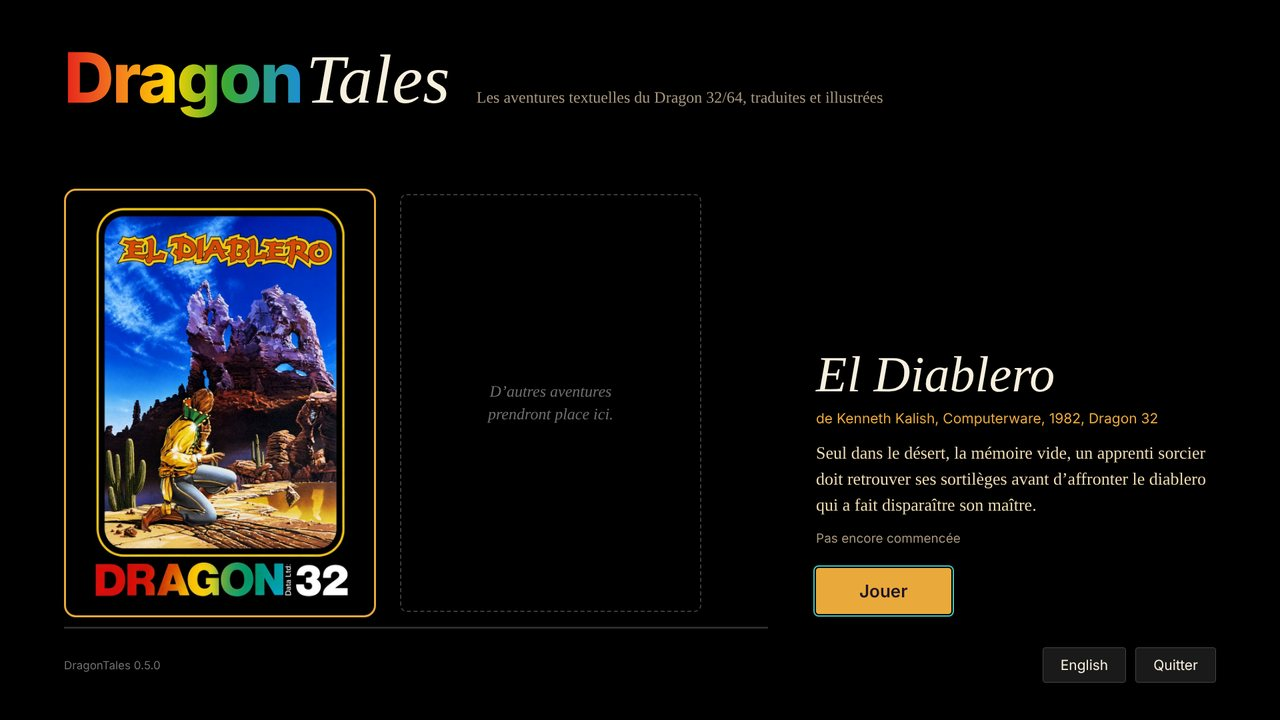
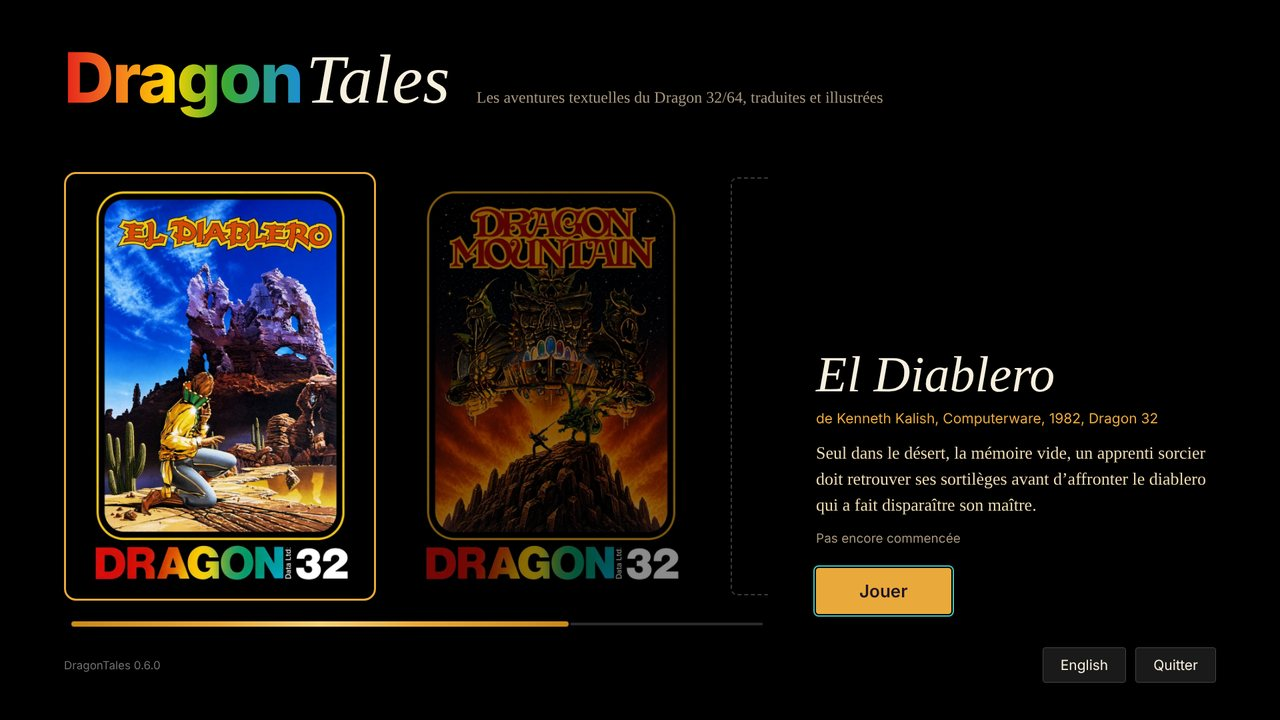
DragonTales 0.6.0 : Dragon Mountain rejoint l'étagère
Dragon Mountain entre dans la page publiée (EN-COURS.md retiré) ; ses essais tournent sur la
page normale. Version 0.6.0 : journal des versions (la 0.5.1, jamais publiée, y est fondue),
notes de version, README français et anglais, captures d'écran.

Claude-Session: https://claude.ai/code/session_01BzSas1tP4TvGfgXSawBHE9

Changed region(s): [[0.0312, 0.2444, 0.5938, 0.8861], [0.3125, 0.2444, 0.5312, 0.825]]

diff --git a/tests/essai-dragonmountain.js b/tests/essai-dragonmountain.js
@@ -1,6 +1,6 @@
 // Essai de Dragon Mountain (jeu en BASIC) dans Chrome : partie entière avec la graine de solution.txt, sauvegarde et
 // chargement, version classique, français et anglais, formule magique, mort.
-//   python build.py --tout && node tests/essai-dragonmountain.js
+//   python build.py && node tests/essai-dragonmountain.js
 let chromium; try{ ({chromium}=require('playwright')); }catch(e){ ({chromium}=require('/opt/npm-tools/node_modules/playwright')); }
 const fs=require('fs'), path=require('path');
 const PAGE='file://'+path.resolve(__dirname,'..','DragonTales.html'), OUT=path.resolve(__dirname,'out'); fs.mkdirSync(OUT,{recursive:true});

diff --git a/aventures/dragonmountain/aventure.js b/aventures/dragonmountain/aventure.js
@@ -1,5 +1,4 @@
 // Dragon Mountain (Dragon Data, 1982) — fiche de l'aventure pour DragonTales.
-// EN COURS (voir EN-COURS.md) : build.py ne l'inclut pas encore dans DragonTales.html (python build.py --tout pour l'essayer).
 // Ce fichier est assemblé après data.js, hints.js, scenes.js, sons.js et textes.js du même dossier : ROOMS, POS, HINTS, SCENES,
 // DM_SFX et dmSfxFor, FR et dmSay/dmClean.
 // Le jeu est écrit en Dragon BASIC : il tourne dans moteur/basic.js, et la partie se lit dans ses variables

diff --git a/README.md b/README.md
@@ -14,12 +14,14 @@ DragonTales l'habille : textes traduits, jeu à la souris, carte, illustrations,
 
 ![El Diablero en version moderne](docs/jeu.jpg)
 
+![Dragon Mountain en version moderne](docs/dragonmountain.jpg)
+
 ## Aventures
 
 | Aventure | Auteur, éditeur | Année | Machine | Langues |
 |---|---|---|---|---|
 | El Diablero | Kenneth Kalish, Computerware | 1982 | Dragon 32 | français, anglais |
-| Dragon Mountain *(en cours d'intégration)* | Dragon Data | 1982 | Dragon 32 | — |
+| Dragon Mountain | Dragon Data | 1982 | Dragon 32 | français, anglais |
 
 ## Jouer
 
@@ -38,6 +40,8 @@ Sauvegardes permet de les exporter dans un fichier pour les reprendre ailleurs.
 - **Jeu à la souris** : un verbe, puis un mot du texte, un objet ou une direction. On peut toujours écrire ses commandes.
 - **Carte** dessinée au fil de l'exploration, avec les objets visibles et les passages particuliers ; un clic y conduit.
 - **Trois pièces magiques** par partie : chacune donne un indice adapté à l'endroit où l'on en est.
+- **Jeux en code machine ou en BASIC** : le programme d'origine tourne dans un émulateur 6809 ou dans un interpréteur
+  Dragon BASIC, corrigé au besoin quand il contient des bugs.
 - **Sauvegardes** (automatique et trois emplacements, export et import par fichier), annulation du dernier coup,
   musique et effets sonores réglables.
 
@@ -81,17 +85,19 @@ node tests/rejouer-solution.js      # sans navigateur : rejoue aventures/eldiabl
 python build.py
 node tests/essai.js                 # dans Chrome, avec Playwright : étagère, partie entière, retour, reprise
 node tests/sauvegardes.js           # dans Chrome : pièces magiques, journal conservé, export et import
-python build.py --tout && node tests/essai-dragonmountain.js   # Dragon Mountain (en cours d'intégration)
+node tests/essai-dragonmountain.js  # dans Chrome : Dragon Mountain (partie entière, sauvegardes, langues, mort)
 ```
 
 Les deux derniers demandent `npm install playwright` et Chrome (variable `CHROME` pour indiquer son chemin).
 GitHub lance ces trois essais à chaque modification poussée sur `main` et sur chaque demande de fusion.
 
-Attention : `aventures/eldiablero/solution.txt` dévoile toute l'aventure.
+Attention : les fichiers `solution.txt` des aventures dévoilent tout le jeu.
 
 ## Crédits
 
 - **El Diablero** : programme et textes d'origine de Kenneth Kalish, publiés par Computerware en 1982.
   Le binaire, l'illustration de la boîte et celle de l'écran d'introduction appartiennent à leurs ayants droit.
-- Portage, traduction française, interface, illustrations vectorielles, indices et effets sonores : projet DragonTales.
-- Musique d'El Diablero : « Awakening in the Desert », créée pour ce projet.
+- **Dragon Mountain** : programme et textes d'origine publiés par Dragon Data en 1982.
+  Le programme et la boîte d'origine appartiennent à leurs ayants droit.
+- Portage, traductions françaises, interface, illustrations vectorielles, indices et effets sonores : projet DragonTales.
+- Musiques : « Awakening in the Desert » (El Diablero) et « The Guardian's Hoard » (Dragon Mountain), créées pour ce projet.

diff --git a/README.en.md b/README.en.md
@@ -14,12 +14,14 @@ DragonTales dresses it up: translated texts, mouse play, a map, illustrations, s
 
 ![El Diablero in the modern version](docs/jeu.jpg)
 
+![Dragon Mountain in the modern version](docs/dragonmountain.jpg)
+
 ## Adventures
 
 | Adventure | Author, publisher | Year | Machine | Languages |
 |---|---|---|---|---|
 | El Diablero | Kenneth Kalish, Computerware | 1982 | Dragon 32 | French, English |
-| Dragon Mountain *(being integrated)* | Dragon Data | 1982 | Dragon 32 | — |
+| Dragon Mountain | Dragon Data | 1982 | Dragon 32 | French, English |
 
 ## Play
 
@@ -40,6 +42,8 @@ Games are saved in the browser; the saved-games window can export them to a file
 - **Mouse play**: a verb, then a word from the text, an object or a direction. Typing commands always works.
 - **A map** drawn as you explore, with visible objects and special passages; one click walks you there.
 - **Three magic coins** per game: each gives a hint suited to where you are in the adventure.
+- **Machine-code or BASIC games**: the original program runs in a 6809 emulator or in a Dragon BASIC interpreter,
+  patched when it contains bugs.
 - **Saved games** (autosave and three slots, export and import as files), undo, adjustable music and sound effects.
 
 ## Build the page
@@ -76,17 +80,19 @@ node tests/rejouer-solution.js      # no browser: replays aventures/eldiablero/s
 python build.py
 node tests/essai.js                 # in Chrome, with Playwright: shelf, full game, back to the shelf, resume
 node tests/sauvegardes.js           # in Chrome: magic coins, kept history, export and import
-python build.py --tout && node tests/essai-dragonmountain.js   # Dragon Mountain (being integrated)
+node tests/essai-dragonmountain.js  # in Chrome: Dragon Mountain (full game, saves, languages, death)
 ```
 
 The last two need `npm install playwright` and Chrome (set `CHROME` to its path if needed).
 GitHub runs all three on every push to `main` and on every pull request.
 
-Warning: `aventures/eldiablero/solution.txt` spoils the whole adventure.
+Warning: the adventures' `solution.txt` files spoil the whole game.
 
 ## Credits
 
 - **El Diablero**: original program and texts by Kenneth Kalish, published by Computerware in 1982.
   The binary, the box art and the title-screen art belong to their rights holders.
-- Port, French translation, interface, vector illustrations, hints and sound effects: the DragonTales project.
-- El Diablero music: “Awakening in the Desert”, made for this project.
+- **Dragon Mountain**: original program and texts published by Dragon Data in 1982.
+  The program and the original box belong to their rights holders.
+- Port, French translations, interface, vector illustrations, hints and sound effects: the DragonTales project.
+- Music: “Awakening in the Desert” (El Diablero) and “The Guardian's Hoard” (Dragon Mountain), made for this project.

diff --git a/CHANGELOG.md b/CHANGELOG.md
@@ -1,15 +1,33 @@
 # Journal des versions
 
-## 0.5.1 — 16 novembre 2026
+## 0.6.0 — 17 novembre 2026
 
+Deuxième aventure : **Dragon Mountain** (Dragon Data, 1982). Le moteur sait désormais jouer les jeux écrits en BASIC.
+
+### Dragon Mountain
+- Programme d'origine exécuté par un interpréteur Dragon BASIC, avec le hasard du jeu : chaque partie est différente.
+- Deux bugs d'origine corrigés : le dragon pouvait bloquer la partie s'il apparaissait avant qu'on ait la dague ;
+  le gobelet nourrissait, et le troisième panier de nourriture ne se mangeait pas.
+- Traduction française complète, versions moderne et classique, carte sur deux étages et la salle du trésor.
+- Une illustration par lieu, avec les objets, l'elfe, le démon, le dragon et les portes ouvertes.
+- Pièces magiques : dix étapes d'indices et six indices de situation ; le second indice nomme le lieu réel de l'objet.
+- Musique « The Guardian's Hoard » et effets sonores propres à l'aventure (dragon, démon, elfes, combats, portes, feu…).
+
+### Moteur
+- Interpréteur Dragon BASIC (`moteur/basic.js`), corrections de programme écrites en BASIC, carte à étages,
+  sons et éléments de scène propres à chaque aventure.
 - Fenêtre « À propos » : un clic sur le titre DragonTales de l'étagère l'ouvre (version, date, auteur, dépôt, aventures).
-- Étagère : barre de défilement aux couleurs du thème (rail sombre, curseur doré), défilement à la molette, la boîte choisie
-  reste visible. Corrigé : le bouton Jouer avait perdu sa couleur dorée.
+- Étagère : barre de défilement aux couleurs du thème, défilement à la molette, la boîte choisie reste visible.
 - Sauvegardes : export de la partie en cours dans un fichier et import d'un fichier, pour changer d'ordinateur ou de navigateur.
 - Le journal de la partie est conservé avec la sauvegarde : on le retrouve à la reprise, dans les deux versions et les deux langues.
 - Corrigé : recharger une sauvegarde ne rend plus les pièces magiques déjà dépensées dans la même partie.
-- El Diablero : le regard que l'on sent sur soi apparaît à la fenêtre de la cabane au lieu de flotter dans le ciel.
-- Dépôt : essais automatiques sur GitHub (solution rejouée, partie entière et sauvegardes dans Chrome), README en anglais.
+- Corrigé : le bouton Jouer de l'étagère avait perdu sa couleur dorée.
+
+### El Diablero
+- Le regard que l'on sent sur soi apparaît à la fenêtre de la cabane au lieu de flotter dans le ciel.
+
+### Dépôt
+- Essais automatiques sur GitHub (solutions rejouées, parties entières et sauvegardes dans Chrome), README en anglais.
 
 ## 0.5.0 — 16 novembre 2026
 

diff --git a/docs/versions/v0.6.0.md b/docs/versions/v0.6.0.md
@@ -1,0 +1,30 @@
+Deuxième aventure sur l'étagère : **Dragon Mountain** (Dragon Data, 1982), traduite, illustrée et mise en musique.
+
+## Dragon Mountain
+
+Un trésor dort au cœur de la montagne, gardé par des elfes, un démon et un dragon. Il faut manger, boire, dormir, se
+protéger du froid et trouver les bonnes armes pour en ressortir vivant. Les objets et les monstres sont placés au hasard :
+chaque partie est différente.
+
+- Version moderne et version classique, en français et en anglais.
+- Une illustration par lieu, avec les objets et les monstres présents ; carte sur deux étages.
+- Trois pièces magiques pour des indices adaptés à ta partie.
+- Musique et effets sonores propres à l'aventure.
+- Deux bugs du programme d'origine corrigés, dont le dragon qui pouvait bloquer la partie.
+
+## Aussi dans cette version
+
+- Fenêtre « À propos » (clic sur le titre DragonTales).
+- Sauvegardes exportables dans un fichier, pour continuer sur un autre ordinateur ou un autre navigateur.
+- Le journal de la partie revient quand on reprend une sauvegarde.
+- Corrections : les pièces magiques ne reviennent plus en rechargeant une sauvegarde ; El Diablero, le regard à la
+  fenêtre de la cabane.
+
+## Jouer
+
+1. Télécharge `DragonTales-0.6.0.zip` ci-dessous et décompresse-le.
+2. Sous Windows, lance `Jouer.bat` (plein écran dans Edge ou Chrome). Ailleurs, ouvre `DragonTales.html` dans un navigateur récent.
+
+Les parties et sauvegardes de la 0.5.0 sont conservées.
+
+Le détail est dans [CHANGELOG.md](https://github.com/Kraran/DragonTales/blob/main/CHANGELOG.md).

diff --git a/docs/AJOUTER-UNE-AVENTURE.md b/docs/AJOUTER-UNE-AVENTURE.md
@@ -65,9 +65,9 @@ tests/
 - des **lieux sur une grille** (`world.cols` colonnes) pour la carte. Les passages hors grille sont tracés au fur et à mesure.
 
 Les jeux écrits en **Dragon BASIC** tournent dans `moteur/basic.js` (`machine.kind: 'basic'`) : l'interpréteur lit le
-programme tokenisé de la cassette. L'interface ne sait pas encore les afficher : c'est l'étape en cours avec Dragon Mountain
-(voir `docs/PLAN-DRAGON-MOUNTAIN.md`). Ce qui demandera encore du travail : un jeu sans routine d'affichage unique, ou une
-carte qui n'est pas une grille. Dans tous les cas il faut d'abord désassembler le
+programme tokenisé de la cassette, et l'interface les affiche ligne par ligne (`world.say` traduit chaque ligne). Dragon
+Mountain en est l'exemple complet (voir `docs/PLAN-DRAGON-MOUNTAIN.md`). Une carte qui n'est pas une grille se décrit
+lieu par lieu (`world.pos` : colonne, ligne, étage). Dans tous les cas il faut d'abord désassembler le
 programme pour trouver ses tables : c'est la partie longue, propre à chaque jeu.
 
 ## Sauvegardes

diff --git a/docs/PLAN-DRAGON-MOUNTAIN.md b/docs/PLAN-DRAGON-MOUNTAIN.md
@@ -78,10 +78,10 @@ L'aventure se joue de bout en bout dans l'interface (`python build.py --tout`), 
       « Musique pendant le jeu », elle joue dans le château et s'efface en fondu au royaume des gardiens.
 - [ ] Relecture de la traduction par l'auteur du projet, en jouant.
 
-### 4. Vérifier et publier
+### 4. Vérifier et publier — fait
 
-- [ ] Essais dans Chrome : partie entière en version moderne et classique, en français et en anglais, sauvegardes.
-- [ ] Retirer `EN-COURS.md`, mettre à jour l'étagère, le README et le journal des versions ; publier la 0.6.0.
+- [x] Essais dans Chrome : partie entière en version moderne et classique, en français et en anglais, sauvegardes.
+- [x] `EN-COURS.md` retiré, README et journal des versions à jour ; version 0.6.0 préparée le 17 novembre 2026.
 
 ## Décisions (16 novembre 2026)
 
